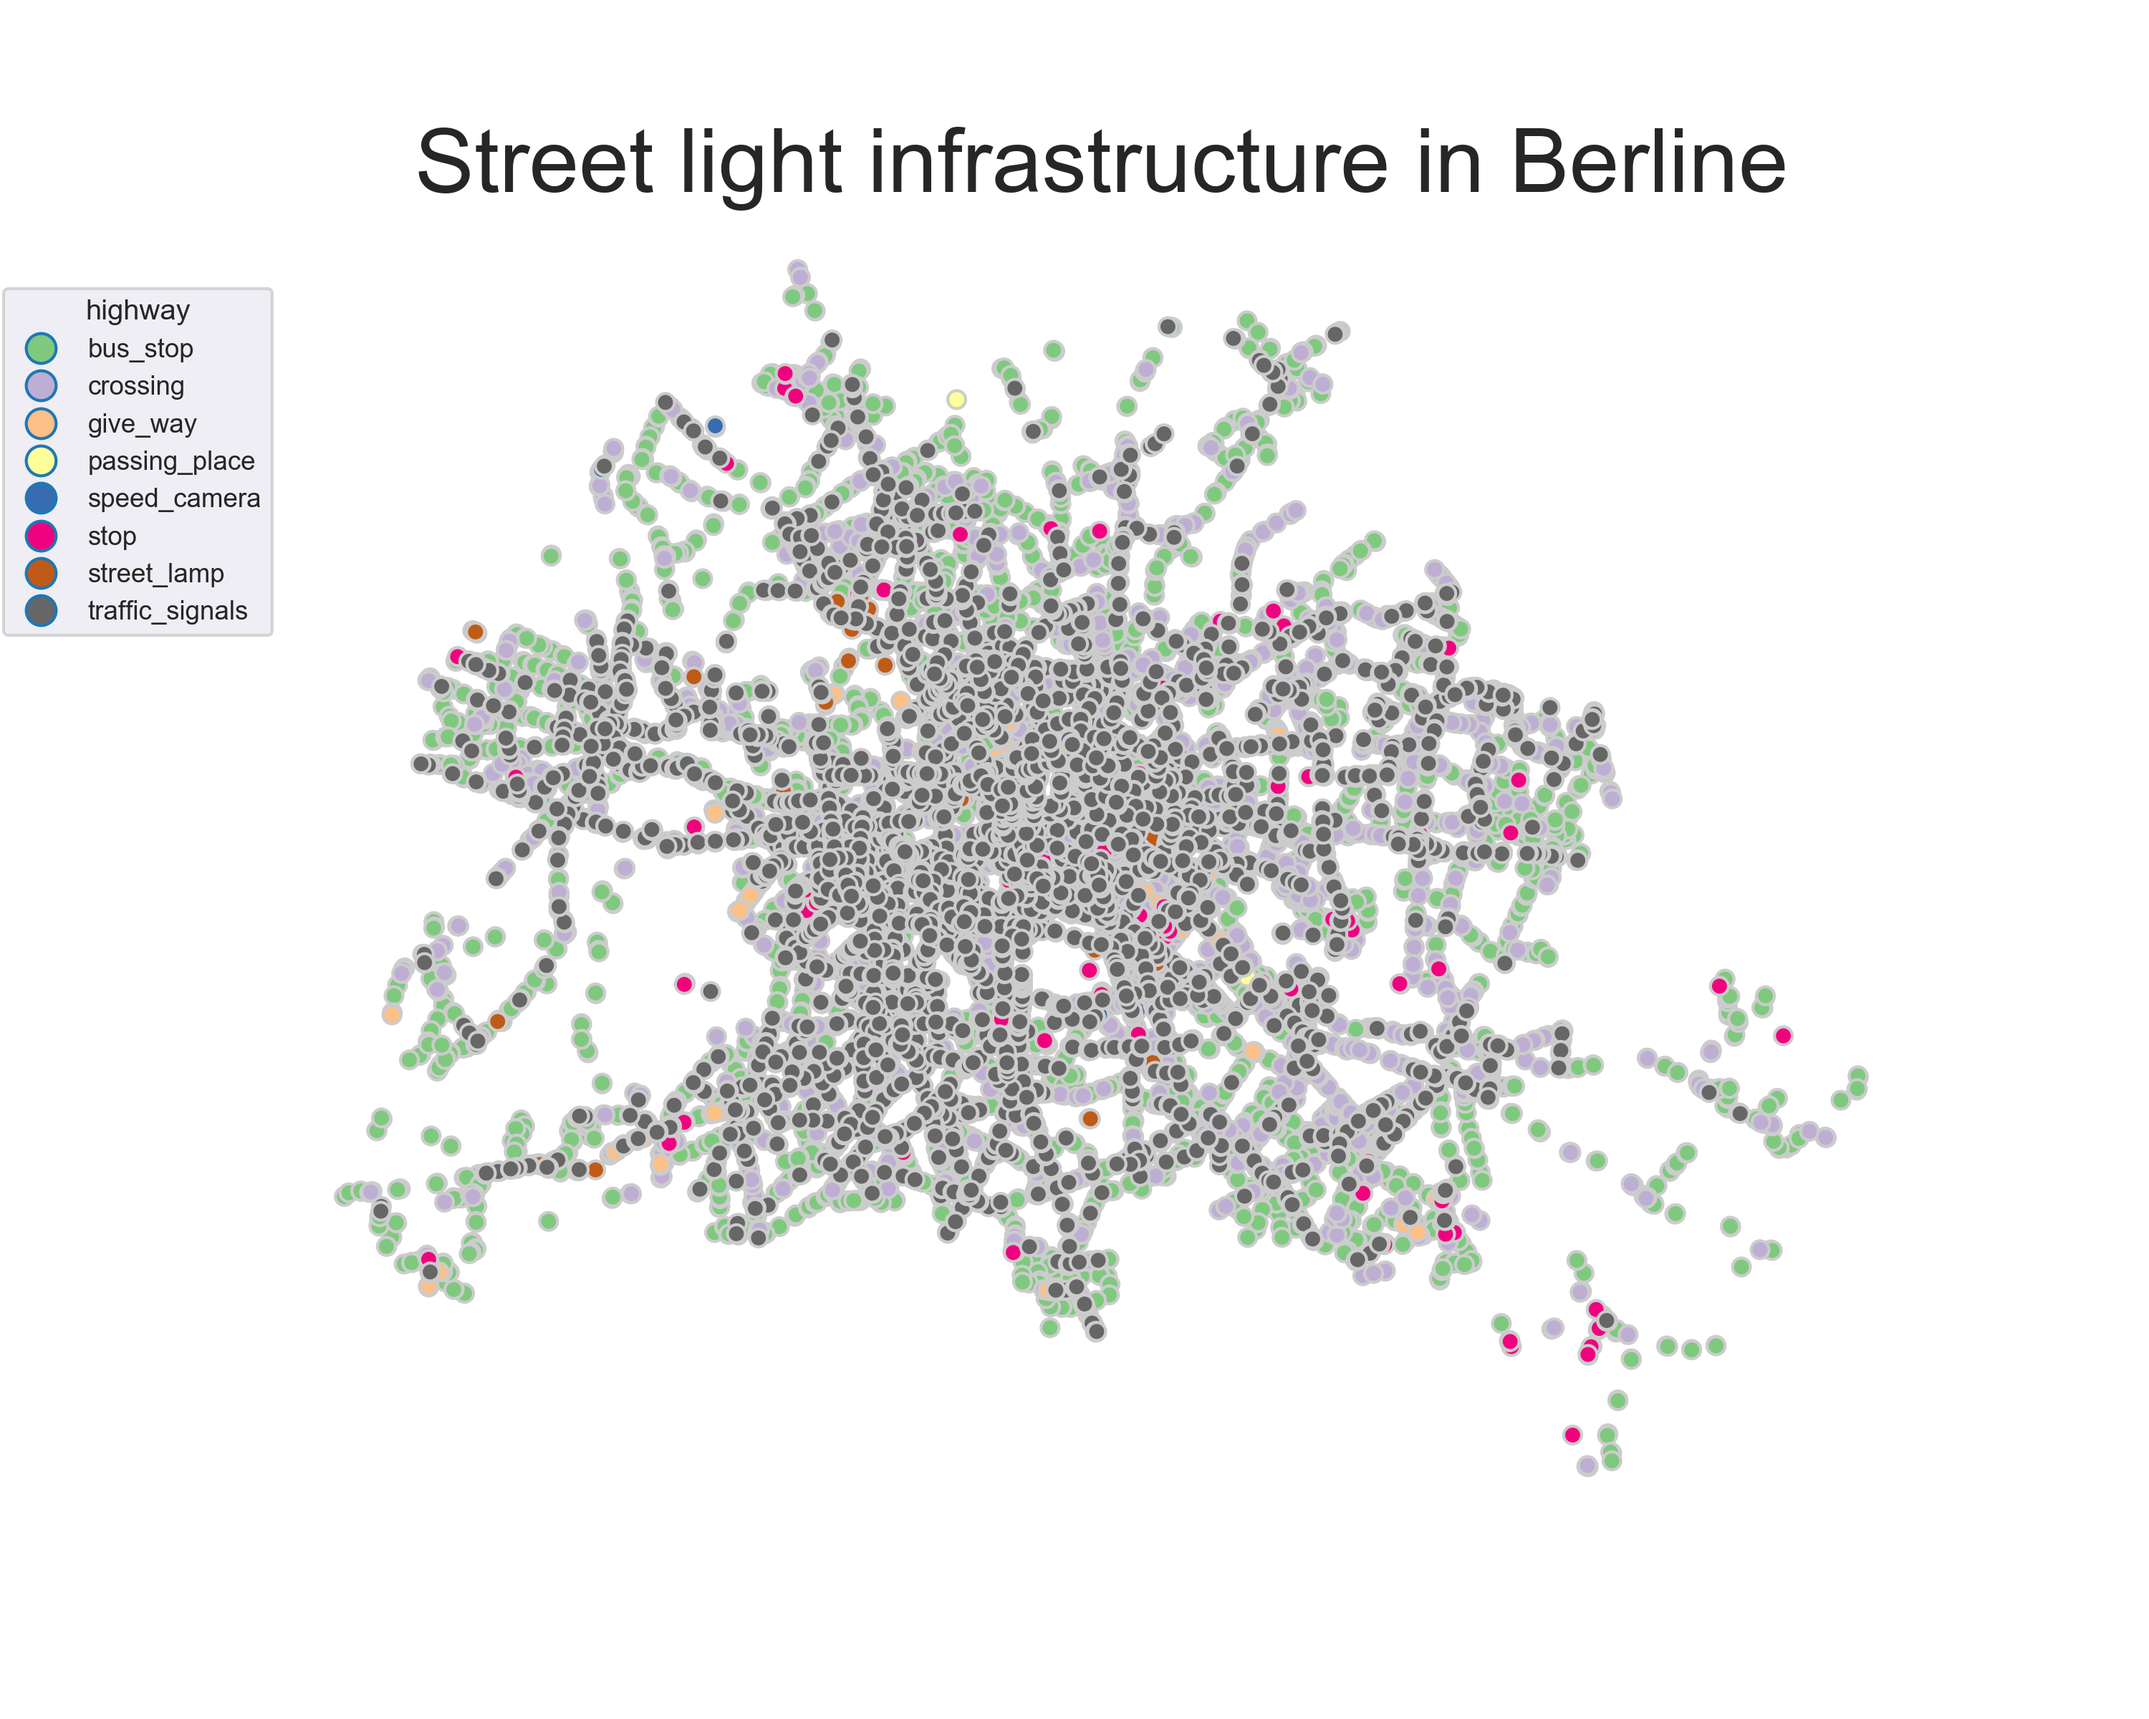
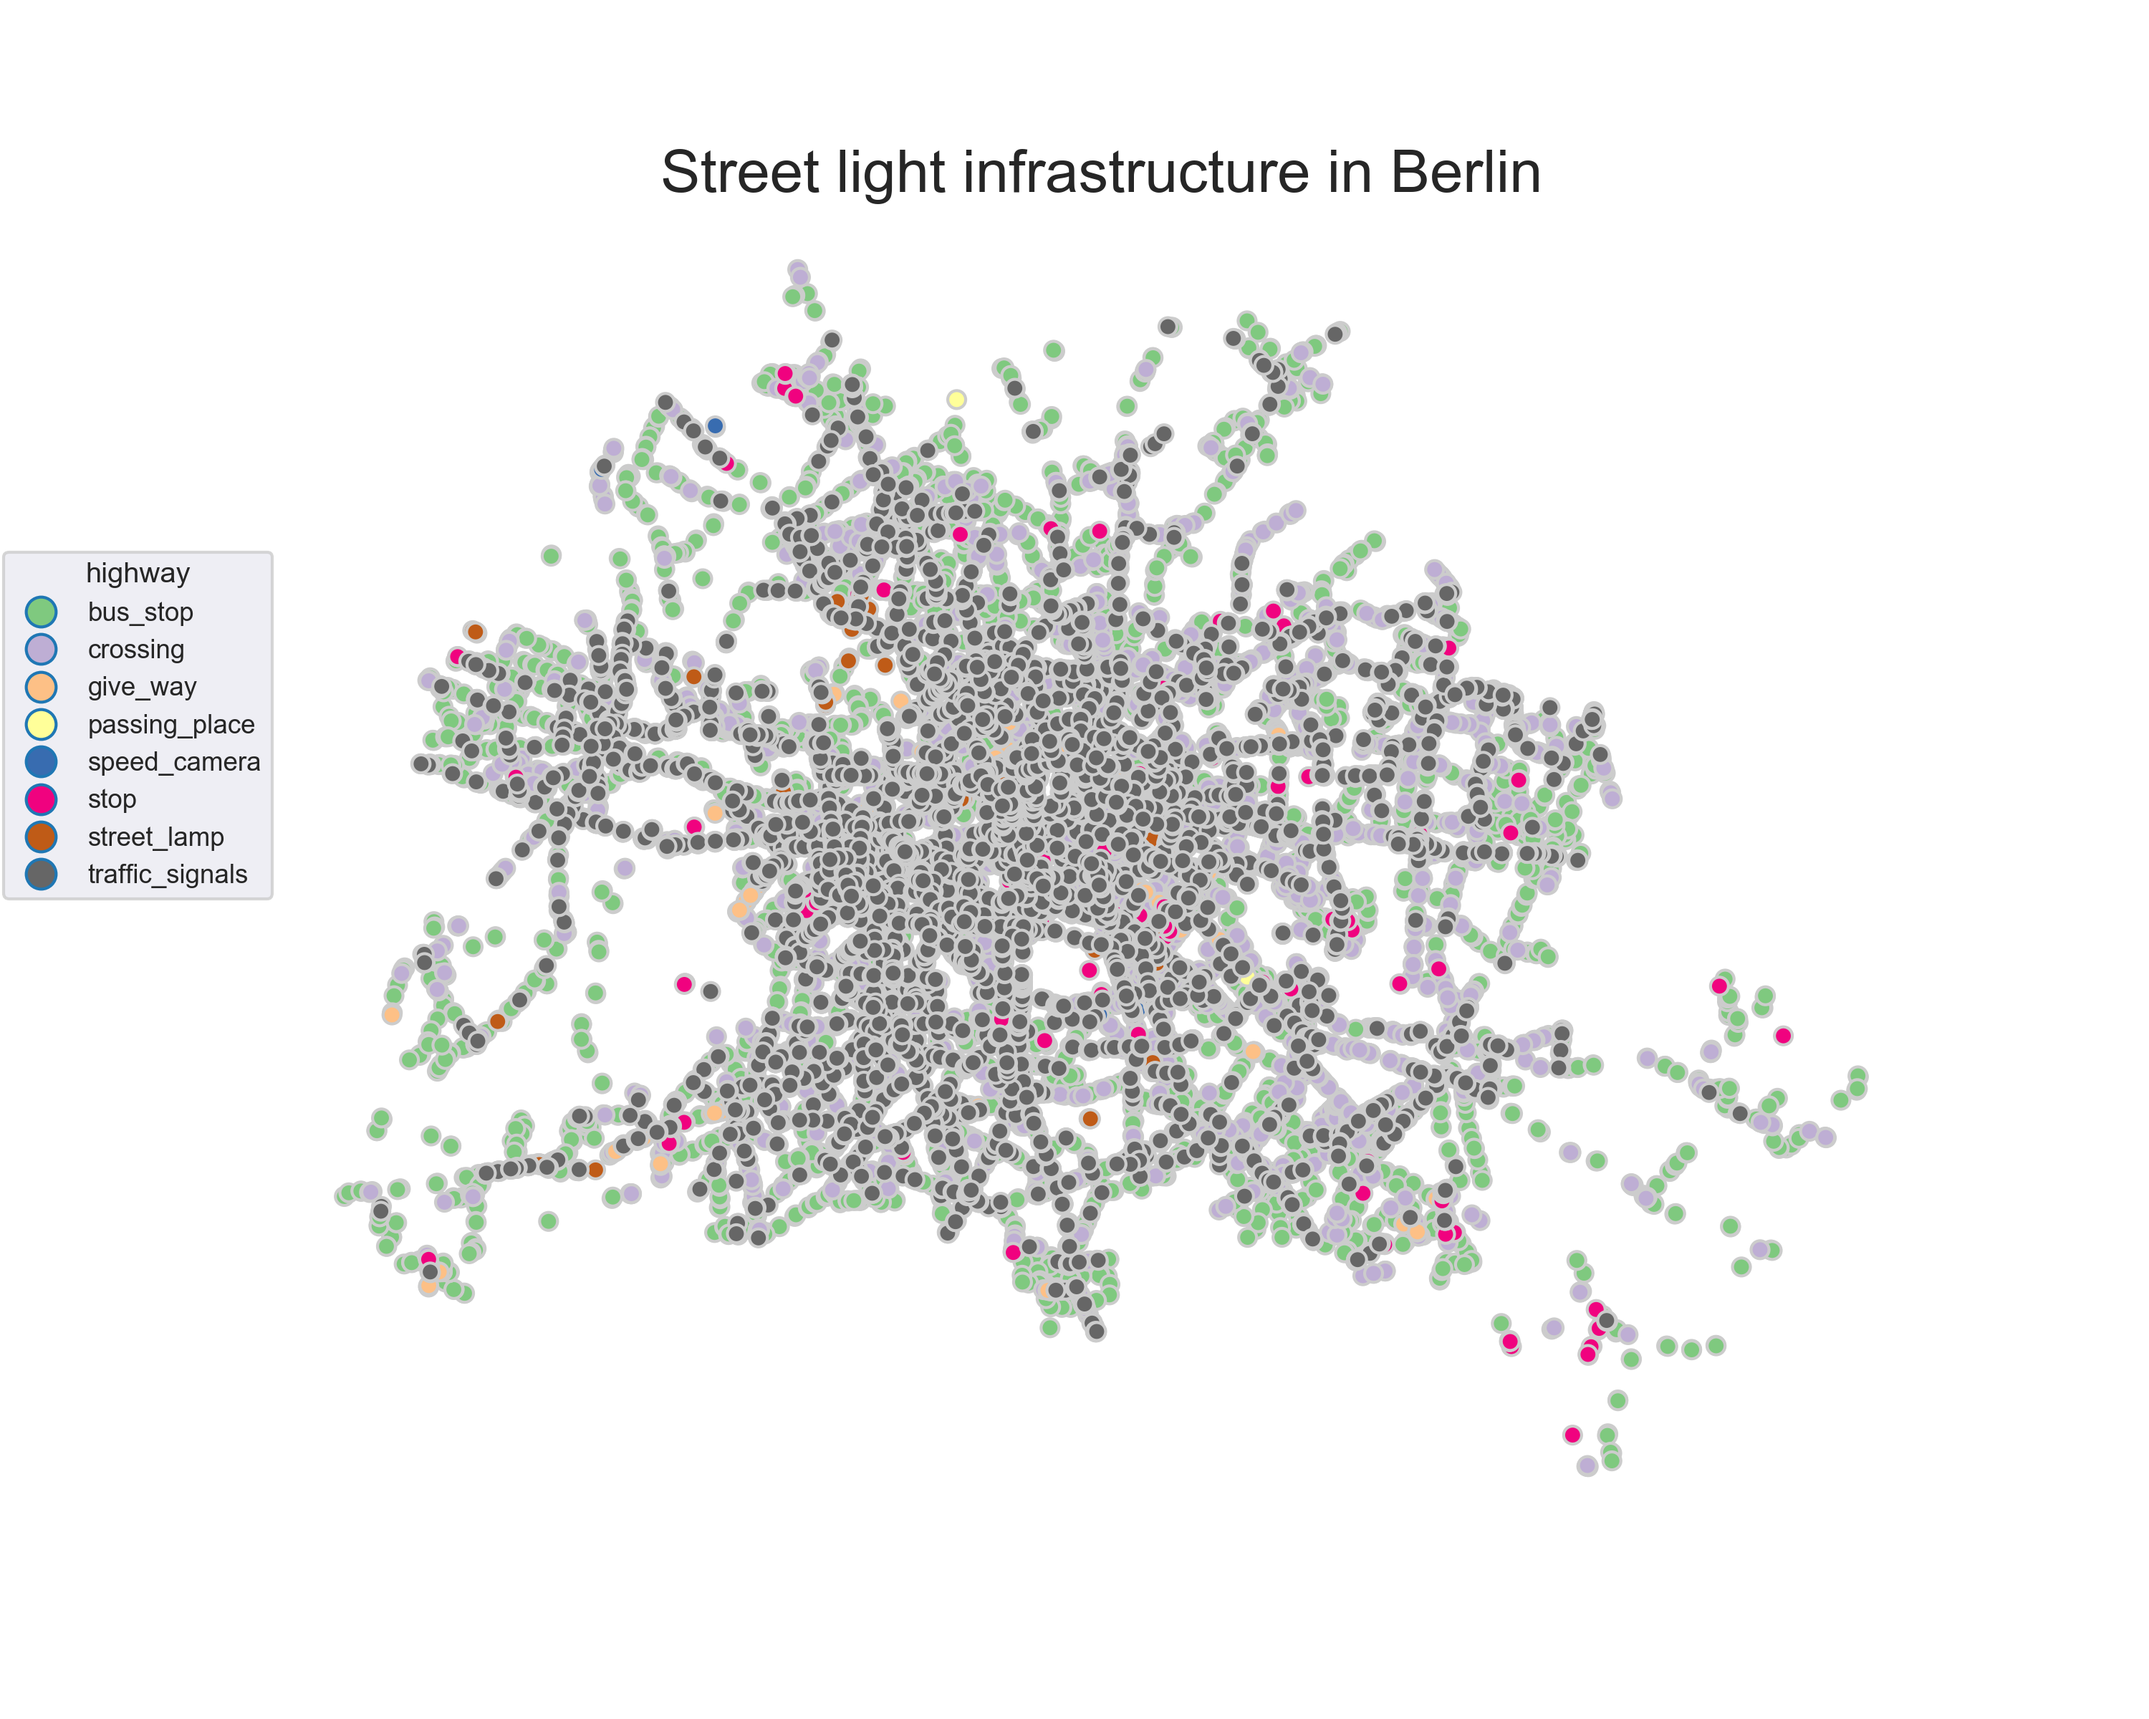
repo update

Changed region(s): [[0.0, 0.1562, 0.124, 0.5312], [0.186, 0.0625, 0.837, 0.125]]

diff --git a/code/plot_highway.py b/code/plot_highway.py
@@ -35,7 +35,7 @@ def highway_to_geodata(df):
     return df
 
 
-def plot_line_polygon():
+def plot_line_polygon(legend_box, font_size):
     """Plot lines and polygons."""
     geodata_highway = highway_to_geodata(_data_)
     fig, ax = plt.subplots(1, figsize=(10, 8))
@@ -44,13 +44,13 @@ def plot_line_polygon():
 
     leg = ax.get_legend()
     leg.set_title("highway")
-    leg.set_bbox_to_anchor((0.0, 0.05, 0.01, 0.9))
-    plt.title("Highway", fontsize=30)
+    leg.set_bbox_to_anchor(legend_box)
+    plt.title("Road infrastructure in Berlin", fontsize=font_size)
     plt.axis("off")
     plt.savefig(destination+"roads.png", dpi=300)
 
 
-def plot_lines():
+def plot_lines(legend_box, font_size):
     """Plot lines."""
     geodata_line = highway_to_geodata(df_line)
     fig, ax = plt.subplots(1, figsize=(10, 8))
@@ -59,13 +59,13 @@ def plot_lines():
 
     leg = ax.get_legend()
     leg.set_title("highway")
-    leg.set_bbox_to_anchor((0.0, 0.05, 0.01, 0.9))
-    plt.title("Highway Lines", fontsize=30)
+    leg.set_bbox_to_anchor(legend_box)
+    plt.title("Road infrastructure in Berlin", fontsize=font_size)
     plt.axis("off")
     plt.savefig(destination+"lines.png", dpi=300)
 
 
-def plot_point():
+def plot_point(legend_box, font_size):
     """Plot points."""
     geodata_point = highway_to_geodata(df_point)
     fig, ax = plt.subplots(1, figsize=(10, 8))
@@ -74,13 +74,13 @@ def plot_point():
 
     leg = ax.get_legend()
     leg.set_title("highway")
-    leg.set_bbox_to_anchor((0.0, 0.05, 0.01, 0.9))
-    plt.title("Street light infrastructure in Berline", fontsize=30)
+    leg.set_bbox_to_anchor(legend_box)
+    plt.title("Street light infrastructure in Berlin", fontsize=font_size)
     plt.axis("off")
     plt.savefig(destination+"points.png", dpi=300)
 
 
-def plot_polygon():
+def plot_polygon(legend_box, font_size):
     """Plot polygons."""
     geodata_polygon = highway_to_geodata(df_polygon)
     fig, ax = plt.subplots(1, figsize=(10, 8))
@@ -89,8 +89,8 @@ def plot_polygon():
 
     leg = ax.get_legend()
     leg.set_title("highway")
-    leg.set_bbox_to_anchor((0.0, 0.05, 0.01, 0.9))
-    plt.title("Road infrastructure in Berlin", fontsize=30)
+    leg.set_bbox_to_anchor(legend_box)
+    plt.title("Road infrastructure in Berlin", fontsize=font_size)
     plt.axis("off")
     plt.savefig(destination+"polygon.png", dpi=300)
 
@@ -98,5 +98,7 @@ def plot_polygon():
 if __name__ == "__main__":
     sns.set_style("dark")
     sns.set_context("notebook", font_scale=0.8, rc={"lines.linewidth": 1.5})
-    plot_point()
-    plot_line_polygon()
+    legend_box = (0.0, 0.05, 0.01, 0.7)
+    font_size = 20
+    plot_point(legend_box, font_size)
+    plot_line_polygon(legend_box, font_size)

diff --git a/code/get_highways.py b/code/get_highways.py
@@ -26,12 +26,10 @@ else:
 # output data destination
 destination = "../data/02_urban_output_data/"
 
-# TODO: generate log file
+
 ##################
 # Helper functions
 ##################
-
-
 def compute_area(dataset, width):
     """Compute area for each line feature and return a dataframe object.
 

diff --git a/README.md b/README.md
@@ -58,11 +58,22 @@ After making sure all system requirements are satisfied, create a Python virtual
 environment can be created by following the steps from https://packaging.python.org/tutorials/installing-packages/ . After creating a python virtual environment, install
 the required python dependencies by running:
 
-activate the virtual environment: `source virtual_env_name/bin/activate`
+activate the virtual environment
+```
+source virtual_env_name/bin/activate
 
-cd into the unzipped or cloned FlexiGIS directory: `cd ../FlexiGIS_light`
+```
+cd into the unzipped or cloned FlexiGIS directory
 
-install requirements: `pip install -r requirements.txt`
+```
+cd ../FlexiGIS_light
+```
+
+install requirements
+
+```
+pip install -r requirements.txt
+```
 
 #### FlexiGIS directory description
 
